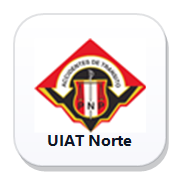
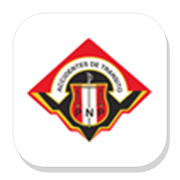
se mejoro el icono de UIAT ya quedo okey

diff --git a/placa_form.html b/placa_form.html
@@ -7,9 +7,9 @@
 <meta name="theme-color" content="#0d1526">
 <meta name="application-name" content="UIAT Norte">
 <link rel="manifest" href="./manifest.webmanifest">
-<link rel="shortcut icon" href="./assets/pwa/icon-192.png">
-<link rel="icon" type="image/png" sizes="192x192" href="./assets/pwa/icon-192.png">
-<link rel="apple-touch-icon" href="./assets/pwa/apple-touch-icon.png">
+<link rel="shortcut icon" href="./assets/pwa/icon-192.png?v=20260404-logo">
+<link rel="icon" type="image/png" sizes="192x192" href="./assets/pwa/icon-192.png?v=20260404-logo">
+<link rel="apple-touch-icon" href="./assets/pwa/apple-touch-icon.png?v=20260404-logo">
 <style>
 body{font-family:Arial;margin:30px}
 input,button,textarea{padding:10px;font-size:16px}

diff --git a/app/Support/PwaSupport.php b/app/Support/PwaSupport.php
@@ -8,6 +8,7 @@ final class PwaSupport
     private const THEME_COLOR = '#0d1526';
     private const APP_NAME = 'UIAT Norte';
     private const SHORT_NAME = 'UIAT';
+    private const ICON_VERSION = '20260404-logo';
 
     public static function boot(): void
     {
@@ -147,9 +148,9 @@ final class PwaSupport
         $appName = \htmlspecialchars(self::APP_NAME, ENT_QUOTES, 'UTF-8');
         $shortName = \htmlspecialchars(self::SHORT_NAME, ENT_QUOTES, 'UTF-8');
         $manifest = self::assetUrl($basePath, 'manifest.webmanifest');
-        $icon192 = self::assetUrl($basePath, 'assets/pwa/icon-192.png');
-        $icon512 = self::assetUrl($basePath, 'assets/pwa/icon-512.png');
-        $appleIcon = self::assetUrl($basePath, 'assets/pwa/apple-touch-icon.png');
+        $icon192 = self::assetUrl($basePath, 'assets/pwa/icon-192.png?v=' . self::ICON_VERSION);
+        $icon512 = self::assetUrl($basePath, 'assets/pwa/icon-512.png?v=' . self::ICON_VERSION);
+        $appleIcon = self::assetUrl($basePath, 'assets/pwa/apple-touch-icon.png?v=' . self::ICON_VERSION);
 
         return <<<HTML
 <meta name="theme-color" content="{$themeColor}">
